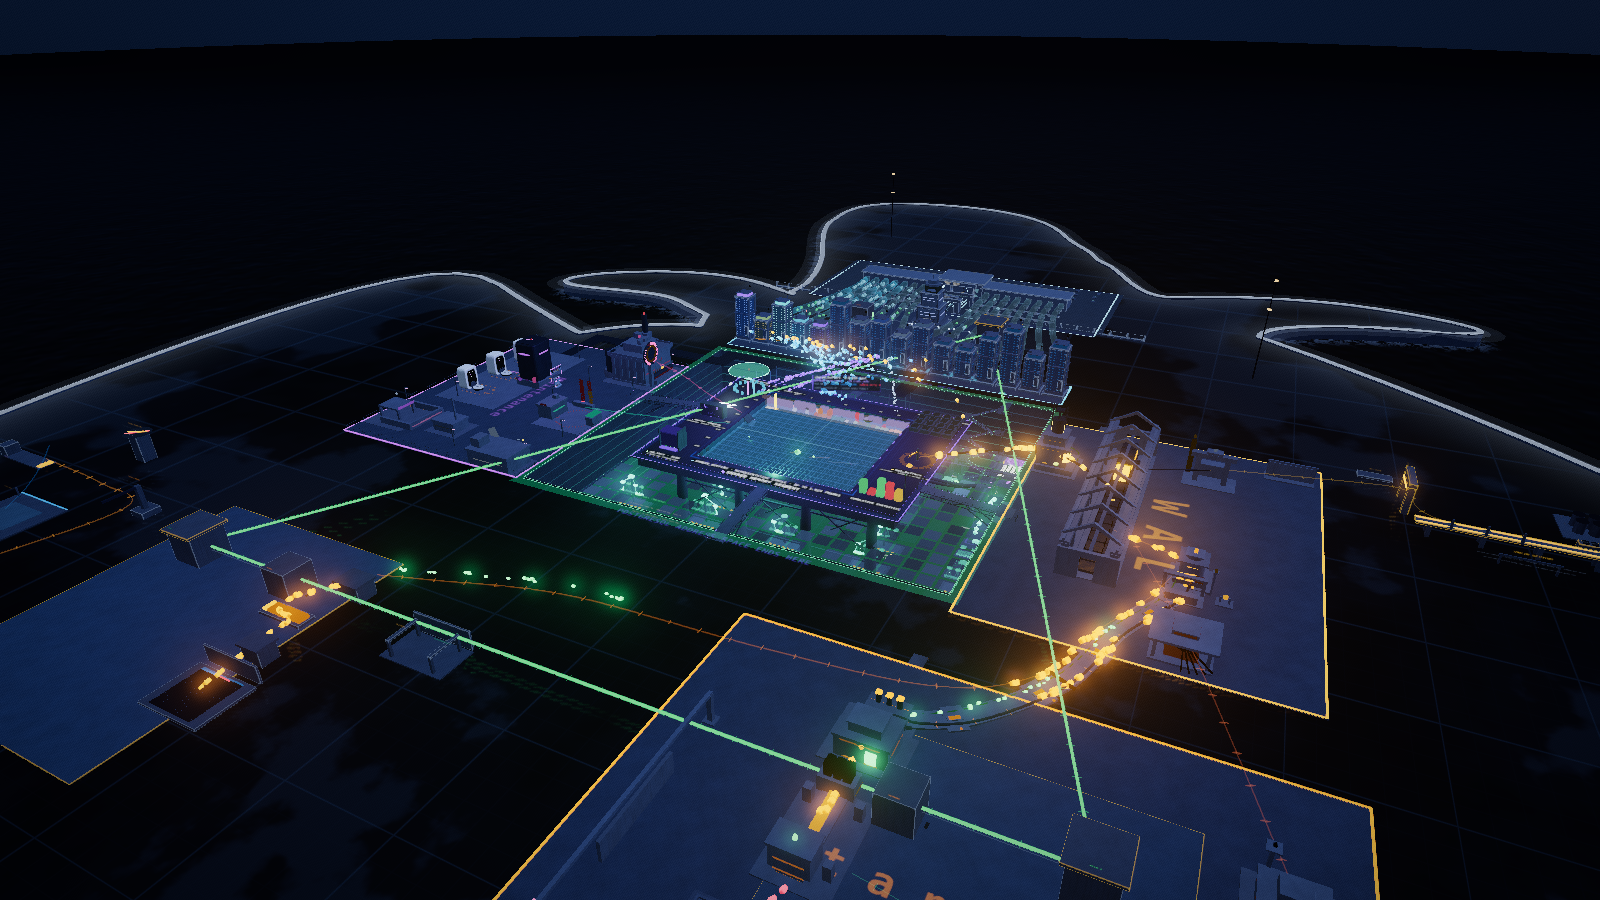
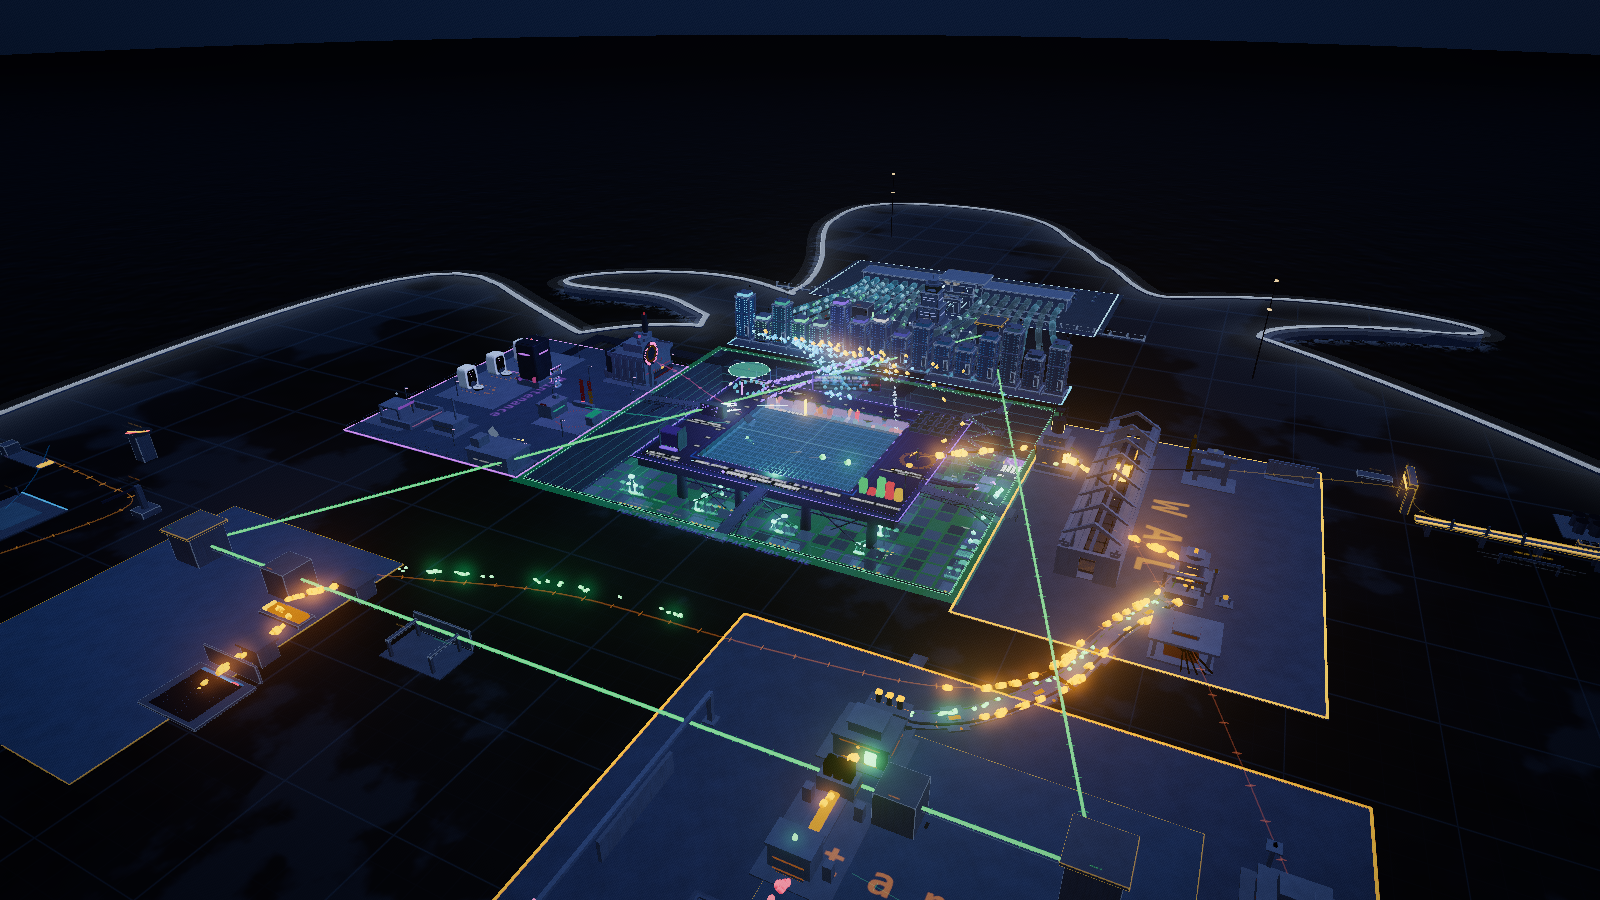
feat: add daylight form and night light pools
Opaque semantic solids are shaded by sky and sun in daylight; shade
only darkens toward the authored colour and night neon is untouched.
Wet paving and district platforms are lit by the neon above them from
the bloom chain's mid blur.

Claude-Session: https://claude.ai/code/session_01Rq7zU2f3hDKYudaAHdTot7

diff --git a/src/core/theme.ts b/src/core/theme.ts
@@ -637,6 +637,54 @@ const SURFACE_NORMAL_FRAG = /* glsl */ `
 }
 `
 
+/* ============================================================================
+ * DAYLIGHT FORM ON MEANING.
+ *
+ * A capsule, a ribbon or a signal lamp is a MeshBasicMaterial: at night it is
+ * its own light, and it must stay that way. In daylight nothing glows, and an
+ * unlit solid in a lit world reads as a sticker on the screen rather than an
+ * object in the scene. This gives those solids form and nothing else: the
+ * authored colour is the sunlit face, shade only ever darkens toward it, and
+ * hue is untouched, so the colour a reader learns is the colour they see.
+ *
+ * The sun is the day preset's; local-clock mode reuses it while it is light,
+ * a few degrees off the true key at the ends of the day.
+ * ==========================================================================*/
+
+/** Value of a face turned fully away from sky and sun, relative to authored. */
+export const DAY_FORM_FLOOR = 0.7
+/** Peak white added at the glint; small, or a saturated hue washes out. */
+export const DAY_FORM_GLOSS = 0.16
+
+const FORM_VERT_ANCHOR = '#include <project_vertex>'
+const FORM_FRAG_ANCHOR = '#include <opaque_fragment>'
+const FORM_GUARD = '#include <specularmap_fragment>'
+
+function dayFormFrag(): string {
+  const key = ATMOSPHERE.day
+  const x = key.keyPos[0] - key.keyTarget[0]
+  const y = key.keyPos[1] - key.keyTarget[1]
+  const z = key.keyPos[2] - key.keyTarget[2]
+  const length = Math.hypot(x, y, z)
+  const sun = [x / length, y / length, z / length].map((value) => value.toFixed(6)).join(', ')
+  return /* glsl */ `
+{
+	vec3 pgFace = cross( dFdx( pgView ), dFdy( pgView ) );
+	if ( dot( pgFace, pgFace ) > 1e-20 ) {
+		pgFace = normalize( pgFace );
+		vec3 pgUp = normalize( ( viewMatrix * vec4( 0.0, 1.0, 0.0, 0.0 ) ).xyz );
+		vec3 pgSun = normalize( ( viewMatrix * vec4( ${sun}, 0.0 ) ).xyz );
+		float pgSky = 0.5 + 0.5 * dot( pgFace, pgUp );
+		float pgLit = max( dot( pgFace, pgSun ), 0.0 );
+		float pgForm = ${DAY_FORM_FLOOR.toFixed(3)} + ${((1 - DAY_FORM_FLOOR) * 0.4).toFixed(3)} * pgSky + ${((1 - DAY_FORM_FLOOR) * 0.6).toFixed(3)} * pgLit;
+		vec3 pgHalf = normalize( pgSun + normalize( - pgView ) );
+		float pgGlint = pow( max( dot( pgFace, pgHalf ), 0.0 ), 48.0 ) * ${DAY_FORM_GLOSS.toFixed(3)};
+		outgoingLight = outgoingLight * pgForm + vec3( pgGlint );
+	}
+}
+`
+}
+
 /* Rolled steel for the city's machinery: smudged, brushed along the sheet and
  * seamed every 2.4 m. Roughness carries most of it, because variation in a
  * metal reads through its reflection, not its albedo. Achromatic throughout:
@@ -719,7 +767,7 @@ export interface ThemeShaderSource {
  * correct in both modes, and night is the only mode that has no other way to
  * tell a wall from a slab once the neon is off.
  */
-function patchThemeShader(shader: ThemeShaderSource, surface: boolean, metal = false): void {
+function patchThemeShader(shader: ThemeShaderSource, surface: boolean, metal = false, form = false): void {
   let f = shader.fragmentShader
   if (airFor(mode).toon) {
     if (f.indexOf(DAYLIGHT_ANCHOR) >= 0) f = f.replace(DAYLIGHT_ANCHOR, DAYLIGHT_ANCHOR + '\n' + DAYLIGHT_GLSL)
@@ -754,6 +802,14 @@ function patchThemeShader(shader: ThemeShaderSource, surface: boolean, metal = f
     shader.vertexShader =
       SURFACE_VARYINGS + shader.vertexShader.replace(SURFACE_VERT_ANCHOR, SURFACE_VERT_ANCHOR + '\n' + SURFACE_VERT)
   }
+  // The guard exists in the basic mesh shader and not in a line's, so a stroke
+  // (which has no faces to shade) cannot be handed this by mistake.
+  if (form && airFor(mode).toon && f.indexOf(FORM_GUARD) >= 0 && f.indexOf(SURFACE_ANCHOR) < 0) {
+    f = 'varying vec3 pgView;\n' + f.replace(FORM_FRAG_ANCHOR, dayFormFrag() + '\n' + FORM_FRAG_ANCHOR)
+    shader.vertexShader =
+      'varying vec3 pgView;\n' +
+      shader.vertexShader.replace(FORM_VERT_ANCHOR, FORM_VERT_ANCHOR + '\n\tpgView = mvPosition.xyz;')
+  }
   shader.fragmentShader = f
 }
 
@@ -775,6 +831,10 @@ function themeHookMetal(shader: ThemeShaderSource): void {
   patchThemeShader(shader, false, true)
 }
 
+function themeHookForm(shader: ThemeShaderSource): void {
+  patchThemeShader(shader, false, false, true)
+}
+
 function themeCacheKey(): string {
   return airFor(mode).toon ? 'pg-day-s' : 'pg-night-s'
 }
@@ -785,6 +845,16 @@ function themeCacheKeyPlain(): string {
 
 function themeCacheKeyMetal(): string {
   return airFor(mode).toon ? 'pg-day-m' : 'pg-night-m'
+}
+
+function themeCacheKeyForm(): string {
+  return airFor(mode).toon ? 'pg-day-f' : 'pg-night-f'
+}
+
+/** Opaque, untextured basic solids: text, halos and glass keep their flat value. */
+function takesDayForm(m: THREE.Material): boolean {
+  const basic = m as THREE.MeshBasicMaterial
+  return basic.isMeshBasicMaterial === true && !basic.map && !basic.alphaMap && !basic.transparent
 }
 
 function isStandard(m: THREE.Material): m is THREE.MeshStandardMaterial {
@@ -805,16 +875,23 @@ function installThemeShader(m: THREE.Material, target: ThemeMode, surface: boole
   const ud = m.userData as ThemeUserData
   ud.pgSurface = surface
   const steel = metal && !surface
-  const hook = surface ? themeHook : steel ? themeHookMetal : themeHookPlain
+  const form = !surface && !steel && takesDayForm(m)
+  const hook = surface ? themeHook : steel ? themeHookMetal : form ? themeHookForm : themeHookPlain
   if (m.onBeforeCompile !== hook) {
     m.onBeforeCompile = hook
-    m.customProgramCacheKey = surface ? themeCacheKey : steel ? themeCacheKeyMetal : themeCacheKeyPlain
+    m.customProgramCacheKey = surface
+      ? themeCacheKey
+      : steel
+        ? themeCacheKeyMetal
+        : form
+          ? themeCacheKeyForm
+          : themeCacheKeyPlain
     ud.pgProgram = undefined
   }
   /* The compiled variant is (mode, surface), so the gate has to track both. A
    * gate that watched the toon flag alone would leave a material that changed
    * variant running its previous program until the next mode toggle. */
-  const want = (airFor(target).toon ? 4 : 0) + (surface ? 1 : steel ? 2 : 0)
+  const want = (airFor(target).toon ? 4 : 0) + (surface ? 1 : steel ? 2 : form ? 3 : 0)
   if (ud.pgProgram === want) return
   ud.pgProgram = want
   m.needsUpdate = true

diff --git a/src/engine/color-grade.ts b/src/engine/color-grade.ts
@@ -137,6 +137,10 @@ export const LIGHT_SCATTER = {
   nearShare: 0.3,
   nearMetres: 40,
   farMetres: 700,
+  /** Gain on the tighter blur where it falls on the wet plate: a pool of light under its source. */
+  groundPool: 2.2,
+  /** Paving and the district platforms standing on it, which is where lamps are. */
+  plateBand: 0.25,
 } as const
 
 /** Fraction of the scatter gain a surface at `distance` metres receives. */
@@ -147,7 +151,9 @@ export function lightScatterShare(distance: number): number {
 
 const SCATTER_UNIFORMS = /* glsl */ `
 uniform sampler2D pgScatterWide;
+uniform sampler2D pgScatterMid;
 uniform float pgScatterStrength;
+uniform float pgGroundPool;
 
 vec3 pgLightScatter( vec3 color, vec2 uv ) {
 	float depth = texture2D( pgSceneDepth, uv ).x;
@@ -156,6 +162,11 @@ vec3 pgLightScatter( vec3 color, vec2 uv ) {
 		vec4 view = pgProjectionInverse * vec4( uv * 2.0 - 1.0, depth * 2.0 - 1.0, 1.0 );
 		view /= max( view.w, 0.000001 );
 		path = smoothstep( ${LIGHT_SCATTER.nearMetres.toFixed(1)}, ${LIGHT_SCATTER.farMetres.toFixed(1)}, length( view.xyz ) );
+		// Wet paving under a lamp is lit by it. Screen-space, so a source out of
+		// frame lights nothing, which errs dark rather than inventing a glow.
+		if ( pgGroundPool > 0.0 && abs( ( pgCameraWorld * view ).y ) < ${LIGHT_SCATTER.plateBand.toFixed(3)} ) {
+			color += texture2D( pgScatterMid, uv ).rgb * pgGroundPool;
+		}
 	}
 	float share = ${LIGHT_SCATTER.nearShare.toFixed(3)} + ${(1 - LIGHT_SCATTER.nearShare).toFixed(3)} * path;
 	return color + texture2D( pgScatterWide, uv ).rgb * pgScatterStrength * share;
@@ -194,6 +205,8 @@ export class GoldenHourOutputPass extends OutputPass {
     this.uniforms.pgGradeContrast = { value: GOLDEN_HOUR_GRADE.contrast }
     this.uniforms.pgGradePivot = { value: GOLDEN_HOUR_GRADE.pivot }
     this.uniforms.pgScatterWide = { value: null }
+    this.uniforms.pgScatterMid = { value: null }
+    this.uniforms.pgGroundPool = { value: 0 }
     this.uniforms.pgScatterStrength = { value: 0 }
     this.uniforms.pgFilmGrain = { value: 0 }
     this.uniforms.pgFilmVignette = { value: 0 }
@@ -236,9 +249,11 @@ export class GoldenHourOutputPass extends OutputPass {
   }
 
   /** `wide` is the bloom chain's widest blur; null or zero strength disables the term. */
-  setLightScatter(wide: THREE.Texture | null, strength: number): void {
+  setLightScatter(wide: THREE.Texture | null, strength: number, mid: THREE.Texture | null = null, groundPool = 0): void {
     this.uniforms.pgScatterWide.value = wide
+    this.uniforms.pgScatterMid.value = mid ?? wide
     this.scatterStrength = wide ? strength : 0
+    this.uniforms.pgGroundPool.value = wide && mid ? groundPool : 0
   }
 
   setAerialPerspective(color: number, density: number, falloff: number, strength: number): void {

diff --git a/src/core/theme.test.ts b/src/core/theme.test.ts
@@ -3,6 +3,8 @@ import * as THREE from 'three'
 
 import {
   COLOR,
+  DAY_FORM_FLOOR,
+  DAY_FORM_GLOSS,
   atmosphere,
   createTheme,
   paintSceneMaterial,
@@ -326,6 +328,48 @@ describe('the masonry surface term', () => {
       // Run-off hangs from walls; a roof or deck has nowhere for it to run.
       expect(out.fragmentShader).toMatch(/pgStreak = smoothstep\([^;]+\) \* \( 1\.0 - pgFlat \);/)
     }
+  })
+
+  it('gives daylight form to opaque semantic solids and to nothing else', () => {
+    const meshFrag = [
+      'void main() {',
+      '  vec4 diffuseColor = vec4( diffuse, opacity );',
+      '  #include <color_fragment>',
+      '  #include <specularmap_fragment>',
+      '  vec3 outgoingLight = reflectedLight.indirectDiffuse;',
+      '  #include <opaque_fragment>',
+      '}',
+    ].join('\n')
+    const meshVert = ['void main() {', '  #include <project_vertex>', '}'].join('\n')
+    const lineFrag = ['void main() {', '  #include <color_fragment>', '  #include <opaque_fragment>', '}'].join('\n')
+    const run = (material: THREE.Material, fragmentShader: string) => {
+      const shader = { vertexShader: meshVert, fragmentShader }
+      ;(material.onBeforeCompile as unknown as (s: typeof shader) => void)(shader)
+      return shader
+    }
+
+    const solid = theme.neon(0xff4d6d, 2.4)
+    const day = inMode('day', () => run(solid, meshFrag))
+    expect(day.fragmentShader).toContain('outgoingLight = outgoingLight * pgForm + vec3( pgGlint );')
+    expect(day.vertexShader).toContain('pgView = mvPosition.xyz;')
+    // Shade may only darken toward the authored colour, and by a bounded amount.
+    const form = /pgForm = ([0-9.]+) \+ ([0-9.]+) \* pgSky \+ ([0-9.]+) \* pgLit/.exec(day.fragmentShader)
+    expect(form).not.toBeNull()
+    const [floor, sky, lit] = form!.slice(1).map(Number)
+    expect(floor).toBe(DAY_FORM_FLOOR)
+    expect(floor).toBeGreaterThanOrEqual(0.6)
+    expect(floor + sky + lit).toBeCloseTo(1, 6)
+    expect(DAY_FORM_GLOSS).toBeLessThanOrEqual(0.2)
+
+    // At night a neon is its own light. Form would make it a lit object.
+    const night = inMode('night', () => run(solid, meshFrag))
+    expect(night.fragmentShader).not.toContain('pgForm')
+
+    // A stroke has no faces; glass and halos are see-through.
+    const stroke = inMode('day', () => run(theme.line(0x8fa5c4, 0.4), lineFrag))
+    const halo = inMode('day', () => run(theme.neon(0xff4d6d, 2.4, { transparent: true, opacity: 0.5 }), meshFrag))
+    for (const out of [stroke, halo]) expect(out.fragmentShader).not.toContain('pgForm')
+    expect(solid.customProgramCacheKey?.()).not.toBe(theme.line(0x8fa5c4, 0.4).customProgramCacheKey?.())
   })
 
   it('gives the surfaced and plain variants different program cache keys', () => {

diff --git a/src/engine/color-grade.test.ts b/src/engine/color-grade.test.ts
@@ -295,5 +295,23 @@ describe('night haze light scatter', () => {
     expect(source.indexOf('pgLightScatter( gl_FragColor.rgb, vUv )')).toBeLessThan(source.indexOf('// tone mapping'))
     pass.dispose()
   })
-})
 
+  it('pools light on the paving and platforms only, from a tighter blur than the haze', async () => {
+    const { GoldenHourOutputPass, LIGHT_SCATTER } = await import('./color-grade')
+    const pass = new GoldenHourOutputPass()
+    const source = pass.material.fragmentShader
+    expect(source).toContain(`abs( ( pgCameraWorld * view ).y ) < ${LIGHT_SCATTER.plateBand.toFixed(3)}`)
+    // District platforms stand 0.1 m proud; a kerb or a wall base must stay out.
+    expect(LIGHT_SCATTER.plateBand).toBeGreaterThan(0.1)
+    expect(LIGHT_SCATTER.plateBand).toBeLessThan(0.6)
+    const wide = { name: 'wide' } as never
+    const mid = { name: 'mid' } as never
+    pass.setLightScatter(wide, 0.4, mid, LIGHT_SCATTER.groundPool)
+    expect(pass.uniforms.pgScatterMid.value).toBe(mid)
+    expect(pass.uniforms.pgGroundPool.value).toBe(LIGHT_SCATTER.groundPool)
+    // No bloom chain, no pool: the paving has no light of its own.
+    pass.setLightScatter(null, 0.4, mid, LIGHT_SCATTER.groundPool)
+    expect(pass.uniforms.pgGroundPool.value).toBe(0)
+    pass.dispose()
+  })
+})

diff --git a/src/engine/renderer.ts b/src/engine/renderer.ts
@@ -772,6 +772,8 @@ export function createRenderer(container: HTMLElement, bus: Bus): RendererApi {
       outputPass.setLightScatter(
         scatters ? bloomPass!.renderTargetsVertical[bloomPass!.nMips - 1].texture : null,
         LIGHT_SCATTER.strength,
+        scatters ? bloomPass!.renderTargetsVertical[2].texture : null,
+        LIGHT_SCATTER.groundPool,
       )
       outputPass.setAerialPerspective(
         air.fogColor,

diff --git a/evidence/cinematic/README.md b/evidence/cinematic/README.md
@@ -15,6 +15,8 @@ changed. Captures are 1600x900 with HUD and labels hidden, taken through
 | Night, overview | — | `after-night-home-1600x900.png` |
 | Night, backend towers | — | `after-night-towers-1600x900.png` |
 | Night, WAL at street level | — | `after-night-street-1600x900.png` |
+| Night, WAL district | — | `after-night-wal-1600x900.png` |
+| Day, WAL at street level | — | `after-day-street-1600x900.png` |
 
 ## What the images show
 
@@ -22,6 +24,9 @@ changed. Captures are 1600x900 with HUD and labels hidden, taken through
   broken cloud deck; the paving is wet, tonally varied and mirrors the sky and
   nearby structure; concrete shows joints, tie holes, blotches and run-off;
   shade is deeper against sunlit stone.
+- Day, street level: WAL capsules carry shade and a glint instead of one flat
+  colour; their hue is unchanged.
+- Night, WAL district: the platform is lit by the flows passing over it.
 - Night: lit districts glow into the haze by distance (street view); the sea
   gives the frame a horizon; wet paving returns a faint horizon glow in the
   overview. Neon, bloom and the Slonik plate outline are unchanged.
@@ -34,5 +39,5 @@ changed. Captures are 1600x900 with HUD and labels hidden, taken through
   are frozen under reduced motion; stills cannot show either.
 - Geometry is unchanged. Buildings are the same boxes with better materials;
   no objects were added, because every object in this city is a claim.
-- Semantic machinery (flow capsules, ribbons, page tiles) keeps its flat,
-  saturated colour by design and reads as less photoreal than its setting.
+- Flat semantic parts (ribbons, page tiles, text) keep one flat colour by
+  design: a plane has no form to shade.

diff --git a/CHANGELOG.md b/CHANGELOG.md
@@ -22,6 +22,8 @@ labelled or pickable.
 - Cast concrete on structural surfaces: aggregate tooth, formwork tie holes, curing blotches and run-off streaks. District zone paint now weathers with its slab.
 - Rolled steel on machinery: brushed, seamed and smudged, carried mostly by roughness.
 - Night haze lit by the city: the bloom chain's widest blur is scattered into the air by path length, so only signals that already glow can light it.
+- Daylight form on semantic solids: capsules and lamps are shaded by sky and sun so they sit in the scene. Shade only darkens toward the authored colour and hue is untouched; at night they remain their own light.
+- Light pools: wet paving and the district platforms are lit by the neon above them, from the same bloom buffers as the haze.
 - Daylight contrast: a stronger, warmer sun against less ambient fill, deeper cast shadows, and a luminance-only filmic contrast curve that keeps every semantic colour pair separated.
 - Film lens after display encoding: restrained grain (frozen under reduced motion) and a vignette that leaves the centre of the frame untouched. Disabled on the low and reduced tiers.
 
